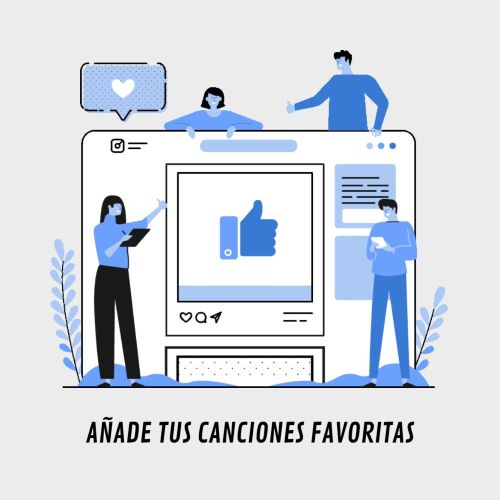
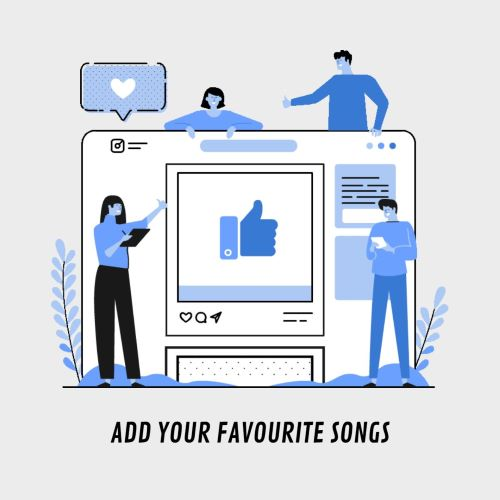
updated pics

diff --git a/_portfolio/post_wedding.md b/_portfolio/post_wedding.md
@@ -1,12 +1,12 @@
 ---
 title: Post-wedding trip
 subtitle: 
-image: assets/img/travel/coming_soon_es.png
+image: assets/img/travel/coming_soon_en.png
 alt: 
 
 caption:
   title: Post-wedding trip
   subtitle: In process
-  thumbnail: assets/img/travel/coming_soon_es.png
+  thumbnail: assets/img/travel/coming_soon_en.png
 ---
 We're planning them - stay tuned for updates!

diff --git a/_portfolio/pre_wedding.md b/_portfolio/pre_wedding.md
@@ -1,12 +1,12 @@
 ---
 title: Pre-wedding trip
 subtitle: 
-image: assets/img/travel/coming_soon_es.png
+image: assets/img/travel/coming_soon_en.png
 alt: 
 
 caption:
   title: Pre-wedding trip
   subtitle: In process
-  thumbnail: assets/img/travel/coming_soon_es.png
+  thumbnail: assets/img/travel/coming_soon_en.png
 ---
 We're planning them - stay tuned for updates!

diff --git a/_portfolio/hotel.md b/_portfolio/hotel.md
@@ -1,7 +1,7 @@
 ---
 title: Hotel
 subtitle: 
-image: assets/img/travel/coming_soon_es.png
+image: assets/img/travel/coming_soon_en.png
 alt: Keep Exploring
 
 caption:

diff --git a/_portfolio/travel_insurance.md b/_portfolio/travel_insurance.md
@@ -1,7 +1,7 @@
 ---
 title: Travel Insurance
 subtitle: 
-image: assets/img/travel/coming_soon_es.png
+image: assets/img/travel/coming_soon_en.png
 alt: 
 
 caption:

diff --git a/_portfolio/transport.md b/_portfolio/transport.md
@@ -1,7 +1,7 @@
 ---
 title: Transport
 subtitle: 
-image: assets/img/travel/coming_soon_es.png
+image: assets/img/travel/coming_soon_en.png
 alt: 
 
 caption:

diff --git a/_spain/recipes.md b/_spain/recipes.md
@@ -1,7 +1,7 @@
 ---
 title: Recipes
 subtitle: 
-image: assets/img/spain/paella_es.png
+image: assets/img/spain/paella_en.png
 alt: Keep Exploring
 
 caption:

diff --git a/_portfolio/rupees.md b/_portfolio/rupees.md
@@ -1,7 +1,7 @@
 ---
 title: Rupees
 subtitle: 
-image: assets/img/travel/coming_soon_es.png
+image: assets/img/travel/coming_soon_en.png
 alt: 
 
 caption:

diff --git a/_portfolio/visa.md b/_portfolio/visa.md
@@ -1,7 +1,7 @@
 ---
 title: Visa
 subtitle: 
-image: assets/img/travel/coming_soon_es.png
+image: assets/img/travel/coming_soon_en.png
 alt: 
 
 caption:

diff --git a/_india/recipes.md b/_india/recipes.md
@@ -1,7 +1,7 @@
 ---
 title: Recipes
 subtitle: 
-image: assets/img/india/pollo_es.png
+image: assets/img/india/pollo_en.png
 alt: 
 
 caption:
